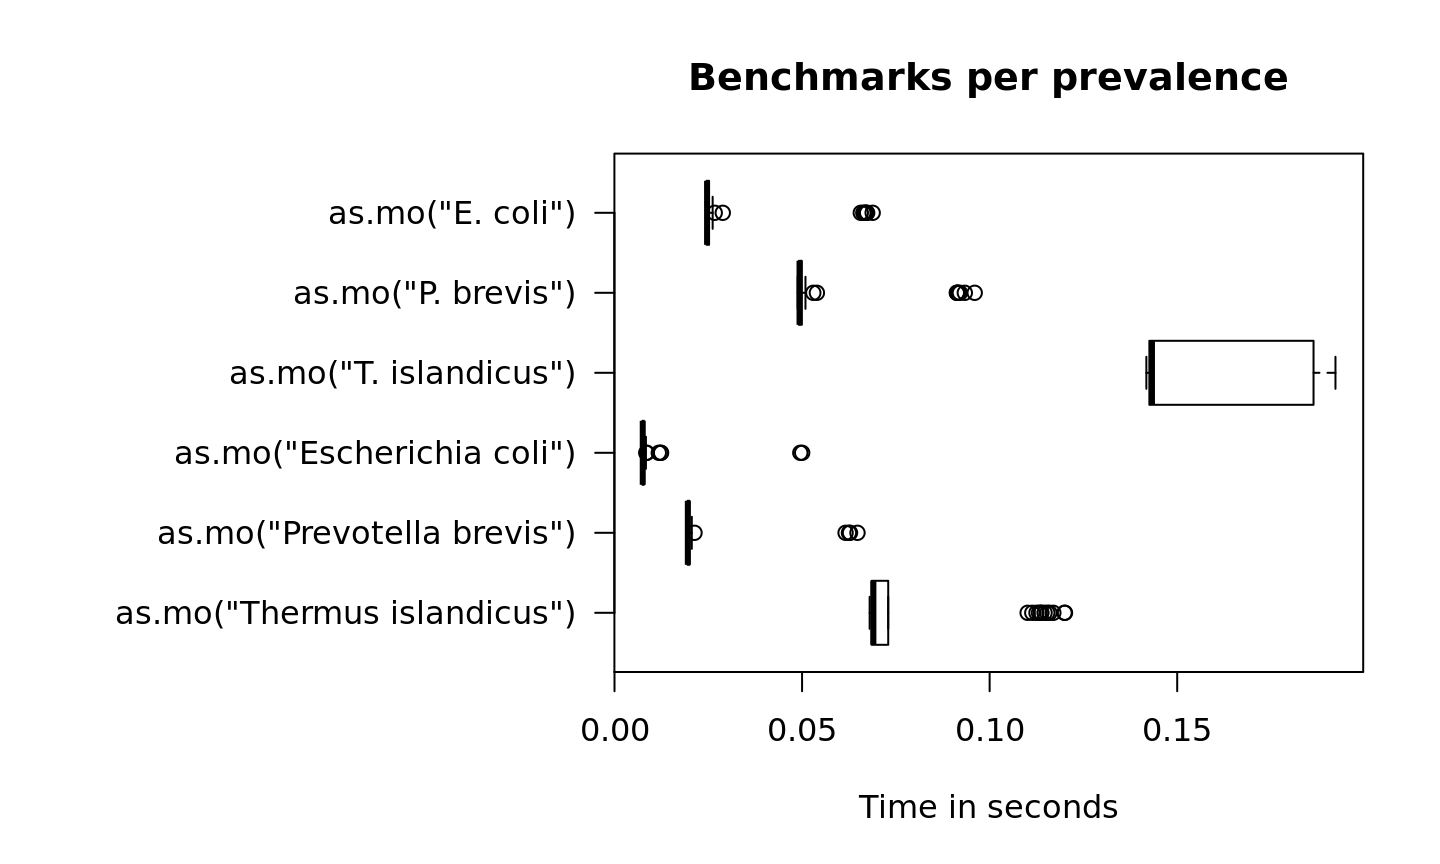
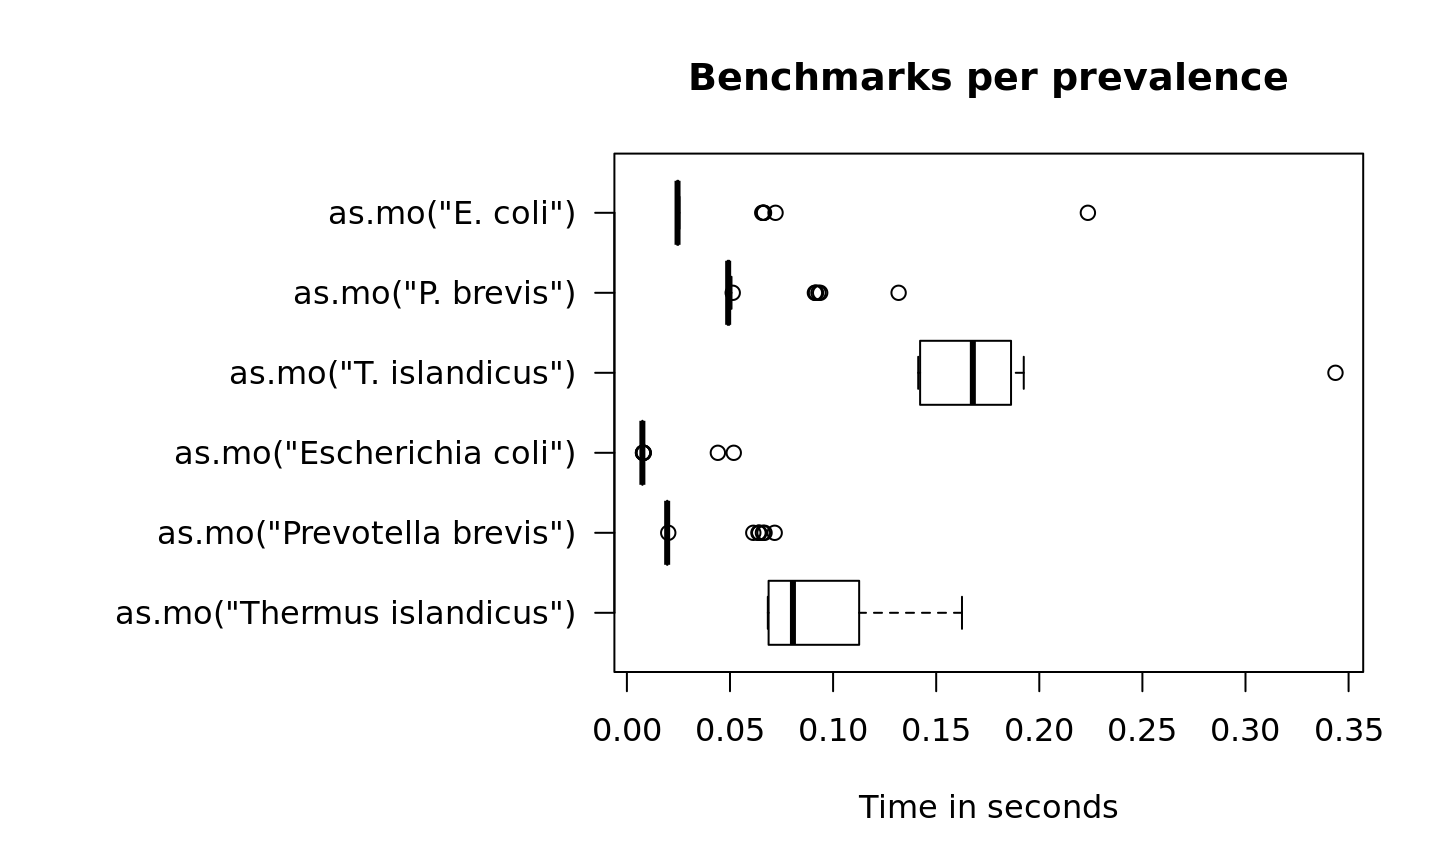
WHONET fix

diff --git a/docs/articles/benchmarks.html b/docs/articles/benchmarks.html
@@ -192,7 +192,7 @@
       <h1>Benchmarks</h1>
                         <h4 class="author">Matthijs S. Berends</h4>
             
-            <h4 class="date">06 March 2019</h4>
+            <h4 class="date">09 March 2019</h4>
       
       
       <div class="hidden name"><code>benchmarks.Rmd</code></div>
@@ -217,14 +217,14 @@
 <a class="sourceLine" id="cb2-8" title="8">                           <span class="dt">times =</span> <span class="dv">10</span>)</a>
 <a class="sourceLine" id="cb2-9" title="9"><span class="kw"><a href="https://www.rdocumentation.org/packages/base/topics/print">print</a></span>(S.aureus, <span class="dt">unit =</span> <span class="st">"ms"</span>, <span class="dt">signif =</span> <span class="dv">3</span>)</a>
 <a class="sourceLine" id="cb2-10" title="10"><span class="co">#&gt; Unit: milliseconds</span></a>
-<a class="sourceLine" id="cb2-11" title="11"><span class="co">#&gt;                            expr   min    lq mean median    uq   max neval</span></a>
-<a class="sourceLine" id="cb2-12" title="12"><span class="co">#&gt;                    as.mo("sau") 16.50 16.60 17.0  16.70 17.00  19.0    10</span></a>
-<a class="sourceLine" id="cb2-13" title="13"><span class="co">#&gt;                   as.mo("stau") 31.70 31.90 51.5  32.10 49.10 166.0    10</span></a>
-<a class="sourceLine" id="cb2-14" title="14"><span class="co">#&gt;                 as.mo("staaur") 16.60 16.70 21.8  16.80 17.00  65.7    10</span></a>
-<a class="sourceLine" id="cb2-15" title="15"><span class="co">#&gt;                 as.mo("STAAUR") 16.70 16.70 27.1  16.80 17.60  77.3    10</span></a>
-<a class="sourceLine" id="cb2-16" title="16"><span class="co">#&gt;              as.mo("S. aureus") 24.60 24.70 30.2  25.30 31.80  57.8    10</span></a>
-<a class="sourceLine" id="cb2-17" title="17"><span class="co">#&gt;             as.mo("S.  aureus") 24.60 24.60 37.7  25.10 66.00  67.4    10</span></a>
-<a class="sourceLine" id="cb2-18" title="18"><span class="co">#&gt;  as.mo("Staphylococcus aureus")  7.47  7.48 11.1   7.65  8.02  41.1    10</span></a></code></pre></div>
+<a class="sourceLine" id="cb2-11" title="11"><span class="co">#&gt;                            expr   min    lq mean median    uq  max neval</span></a>
+<a class="sourceLine" id="cb2-12" title="12"><span class="co">#&gt;                    as.mo("sau") 16.60 16.60 25.2  16.80 18.00 58.3    10</span></a>
+<a class="sourceLine" id="cb2-13" title="13"><span class="co">#&gt;                   as.mo("stau") 31.60 31.80 44.8  32.40 72.20 76.7    10</span></a>
+<a class="sourceLine" id="cb2-14" title="14"><span class="co">#&gt;                 as.mo("staaur") 16.60 16.60 26.4  16.70 17.30 71.9    10</span></a>
+<a class="sourceLine" id="cb2-15" title="15"><span class="co">#&gt;                 as.mo("STAAUR") 16.50 16.60 16.6  16.60 16.70 16.8    10</span></a>
+<a class="sourceLine" id="cb2-16" title="16"><span class="co">#&gt;              as.mo("S. aureus") 24.50 24.60 29.0  24.70 25.00 66.6    10</span></a>
+<a class="sourceLine" id="cb2-17" title="17"><span class="co">#&gt;             as.mo("S.  aureus") 24.30 24.60 24.6  24.60 24.70 24.9    10</span></a>
+<a class="sourceLine" id="cb2-18" title="18"><span class="co">#&gt;  as.mo("Staphylococcus aureus")  7.45  7.47 11.9   7.53  7.97 50.0    10</span></a></code></pre></div>
 <p>In the table above, all measurements are shown in milliseconds (thousands of seconds). A value of 5 milliseconds means it can determine 200 input values per second. It case of 100 milliseconds, this is only 10 input values per second. The second input is the only one that has to be looked up thoroughly. All the others are known codes (the first one is a WHONET code) or common laboratory codes, or common full organism names like the last one. Full organism names are always preferred.</p>
 <p>To achieve this speed, the <code>as.mo</code> function also takes into account the prevalence of human pathogenic microorganisms. The downside is of course that less prevalent microorganisms will be determined less fast. See this example for the ID of <em>Thermus islandicus</em> (<code>B_THERMS_ISL</code>), a bug probably never found before in humans:</p>
 <div class="sourceCode" id="cb3"><pre class="sourceCode r"><code class="sourceCode r"><a class="sourceLine" id="cb3-1" title="1">T.islandicus &lt;-<span class="st"> </span><span class="kw"><a href="https://www.rdocumentation.org/packages/microbenchmark/topics/microbenchmark">microbenchmark</a></span>(<span class="kw"><a href="../reference/as.mo.html">as.mo</a></span>(<span class="st">"theisl"</span>),</a>
@@ -236,12 +236,12 @@
 <a class="sourceLine" id="cb3-7" title="7"><span class="kw"><a href="https://www.rdocumentation.org/packages/base/topics/print">print</a></span>(T.islandicus, <span class="dt">unit =</span> <span class="st">"ms"</span>, <span class="dt">signif =</span> <span class="dv">3</span>)</a>
 <a class="sourceLine" id="cb3-8" title="8"><span class="co">#&gt; Unit: milliseconds</span></a>
 <a class="sourceLine" id="cb3-9" title="9"><span class="co">#&gt;                         expr   min    lq  mean median  uq max neval</span></a>
-<a class="sourceLine" id="cb3-10" title="10"><span class="co">#&gt;              as.mo("theisl") 269.0 270.0 294.0  293.0 317 320    10</span></a>
-<a class="sourceLine" id="cb3-11" title="11"><span class="co">#&gt;              as.mo("THEISL") 272.0 313.0 327.0  316.0 321 476    10</span></a>
-<a class="sourceLine" id="cb3-12" title="12"><span class="co">#&gt;       as.mo("T. islandicus") 142.0 142.0 159.0  144.0 191 205    10</span></a>
-<a class="sourceLine" id="cb3-13" title="13"><span class="co">#&gt;      as.mo("T.  islandicus") 142.0 143.0 166.0  164.0 188 196    10</span></a>
-<a class="sourceLine" id="cb3-14" title="14"><span class="co">#&gt;  as.mo("Thermus islandicus")  68.4  68.6  86.8   69.2 113 116    10</span></a></code></pre></div>
-<p>That takes 7.4 times as much time on average. A value of 100 milliseconds means it can only determine ~10 different input values per second. We can conclude that looking up arbitrary codes of less prevalent microorganisms is the worst way to go, in terms of calculation performance. Full names (like <em>Thermus islandicus</em>) are almost fast - these are the most probable input from most data sets.</p>
+<a class="sourceLine" id="cb3-10" title="10"><span class="co">#&gt;              as.mo("theisl") 262.0 263.0 284.0  284.0 304 308    10</span></a>
+<a class="sourceLine" id="cb3-11" title="11"><span class="co">#&gt;              as.mo("THEISL") 263.0 264.0 293.0  304.0 306 308    10</span></a>
+<a class="sourceLine" id="cb3-12" title="12"><span class="co">#&gt;       as.mo("T. islandicus") 142.0 142.0 151.0  143.0 147 187    10</span></a>
+<a class="sourceLine" id="cb3-13" title="13"><span class="co">#&gt;      as.mo("T.  islandicus") 142.0 142.0 169.0  184.0 185 194    10</span></a>
+<a class="sourceLine" id="cb3-14" title="14"><span class="co">#&gt;  as.mo("Thermus islandicus")  67.9  68.1  93.3   90.3 116 130    10</span></a></code></pre></div>
+<p>That takes 7.8 times as much time on average. A value of 100 milliseconds means it can only determine ~10 different input values per second. We can conclude that looking up arbitrary codes of less prevalent microorganisms is the worst way to go, in terms of calculation performance. Full names (like <em>Thermus islandicus</em>) are almost fast - these are the most probable input from most data sets.</p>
 <p>In the figure below, we compare <em>Escherichia coli</em> (which is very common) with <em>Prevotella brevis</em> (which is moderately common) and with <em>Thermus islandicus</em> (which is very uncommon):</p>
 <div class="sourceCode" id="cb4"><pre class="sourceCode r"><code class="sourceCode r"><a class="sourceLine" id="cb4-1" title="1"><span class="kw"><a href="https://www.rdocumentation.org/packages/graphics/topics/par">par</a></span>(<span class="dt">mar =</span> <span class="kw"><a href="https://www.rdocumentation.org/packages/base/topics/c">c</a></span>(<span class="dv">5</span>, <span class="dv">16</span>, <span class="dv">4</span>, <span class="dv">2</span>)) <span class="co"># set more space for left margin text (16)</span></a>
 <a class="sourceLine" id="cb4-2" title="2"></a>
@@ -287,8 +287,8 @@
 <a class="sourceLine" id="cb5-24" title="24"><span class="kw"><a href="https://www.rdocumentation.org/packages/base/topics/print">print</a></span>(run_it, <span class="dt">unit =</span> <span class="st">"ms"</span>, <span class="dt">signif =</span> <span class="dv">3</span>)</a>
 <a class="sourceLine" id="cb5-25" title="25"><span class="co">#&gt; Unit: milliseconds</span></a>
 <a class="sourceLine" id="cb5-26" title="26"><span class="co">#&gt;            expr min  lq mean median  uq max neval</span></a>
-<a class="sourceLine" id="cb5-27" title="27"><span class="co">#&gt;  mo_fullname(x) 688 757  800    758 919 921    10</span></a></code></pre></div>
-<p>So transforming 500,000 values (!!) of 50 unique values only takes 0.76 seconds (758 ms). You only lose time on your unique input values.</p>
+<a class="sourceLine" id="cb5-27" title="27"><span class="co">#&gt;  mo_fullname(x) 734 810  840    817 860 973    10</span></a></code></pre></div>
+<p>So transforming 500,000 values (!!) of 50 unique values only takes 0.82 seconds (817 ms). You only lose time on your unique input values.</p>
 </div>
 <div id="precalculated-results" class="section level3">
 <h3 class="hasAnchor">
@@ -301,9 +301,9 @@
 <a class="sourceLine" id="cb6-5" title="5"><span class="kw"><a href="https://www.rdocumentation.org/packages/base/topics/print">print</a></span>(run_it, <span class="dt">unit =</span> <span class="st">"ms"</span>, <span class="dt">signif =</span> <span class="dv">3</span>)</a>
 <a class="sourceLine" id="cb6-6" title="6"><span class="co">#&gt; Unit: milliseconds</span></a>
 <a class="sourceLine" id="cb6-7" title="7"><span class="co">#&gt;  expr    min     lq   mean median     uq    max neval</span></a>
-<a class="sourceLine" id="cb6-8" title="8"><span class="co">#&gt;     A 11.200 11.300 11.900 12.200 12.300 12.600    10</span></a>
-<a class="sourceLine" id="cb6-9" title="9"><span class="co">#&gt;     B 22.300 22.500 23.300 23.100 23.900 24.700    10</span></a>
-<a class="sourceLine" id="cb6-10" title="10"><span class="co">#&gt;     C  0.339  0.519  0.612  0.564  0.768  0.776    10</span></a></code></pre></div>
+<a class="sourceLine" id="cb6-8" title="8"><span class="co">#&gt;     A 11.200 11.300 11.400 11.400 11.600 11.600    10</span></a>
+<a class="sourceLine" id="cb6-9" title="9"><span class="co">#&gt;     B 22.200 22.400 26.800 22.600 22.800 63.700    10</span></a>
+<a class="sourceLine" id="cb6-10" title="10"><span class="co">#&gt;     C  0.328  0.564  0.525  0.568  0.577  0.591    10</span></a></code></pre></div>
 <p>So going from <code><a href="../reference/mo_property.html">mo_fullname("Staphylococcus aureus")</a></code> to <code>"Staphylococcus aureus"</code> takes 0.0006 seconds - it doesn’t even start calculating <em>if the result would be the same as the expected resulting value</em>. That goes for all helper functions:</p>
 <div class="sourceCode" id="cb7"><pre class="sourceCode r"><code class="sourceCode r"><a class="sourceLine" id="cb7-1" title="1">run_it &lt;-<span class="st"> </span><span class="kw"><a href="https://www.rdocumentation.org/packages/microbenchmark/topics/microbenchmark">microbenchmark</a></span>(<span class="dt">A =</span> <span class="kw"><a href="../reference/mo_property.html">mo_species</a></span>(<span class="st">"aureus"</span>),</a>
 <a class="sourceLine" id="cb7-2" title="2">                         <span class="dt">B =</span> <span class="kw"><a href="../reference/mo_property.html">mo_genus</a></span>(<span class="st">"Staphylococcus"</span>),</a>
@@ -317,14 +317,14 @@
 <a class="sourceLine" id="cb7-10" title="10"><span class="kw"><a href="https://www.rdocumentation.org/packages/base/topics/print">print</a></span>(run_it, <span class="dt">unit =</span> <span class="st">"ms"</span>, <span class="dt">signif =</span> <span class="dv">3</span>)</a>
 <a class="sourceLine" id="cb7-11" title="11"><span class="co">#&gt; Unit: milliseconds</span></a>
 <a class="sourceLine" id="cb7-12" title="12"><span class="co">#&gt;  expr   min    lq  mean median    uq   max neval</span></a>
-<a class="sourceLine" id="cb7-13" title="13"><span class="co">#&gt;     A 0.321 0.434 0.481  0.501 0.519 0.665    10</span></a>
-<a class="sourceLine" id="cb7-14" title="14"><span class="co">#&gt;     B 0.352 0.414 0.482  0.475 0.513 0.715    10</span></a>
-<a class="sourceLine" id="cb7-15" title="15"><span class="co">#&gt;     C 0.394 0.648 0.670  0.679 0.770 0.839    10</span></a>
-<a class="sourceLine" id="cb7-16" title="16"><span class="co">#&gt;     D 0.354 0.371 0.393  0.395 0.410 0.428    10</span></a>
-<a class="sourceLine" id="cb7-17" title="17"><span class="co">#&gt;     E 0.286 0.353 0.370  0.369 0.399 0.443    10</span></a>
-<a class="sourceLine" id="cb7-18" title="18"><span class="co">#&gt;     F 0.317 0.373 0.377  0.380 0.392 0.437    10</span></a>
-<a class="sourceLine" id="cb7-19" title="19"><span class="co">#&gt;     G 0.272 0.307 0.352  0.348 0.387 0.431    10</span></a>
-<a class="sourceLine" id="cb7-20" title="20"><span class="co">#&gt;     H 0.293 0.338 0.366  0.361 0.412 0.441    10</span></a></code></pre></div>
+<a class="sourceLine" id="cb7-13" title="13"><span class="co">#&gt;     A 0.318 0.376 0.414  0.419 0.449 0.537    10</span></a>
+<a class="sourceLine" id="cb7-14" title="14"><span class="co">#&gt;     B 0.343 0.397 0.437  0.447 0.479 0.522    10</span></a>
+<a class="sourceLine" id="cb7-15" title="15"><span class="co">#&gt;     C 0.325 0.380 0.486  0.482 0.554 0.703    10</span></a>
+<a class="sourceLine" id="cb7-16" title="16"><span class="co">#&gt;     D 0.334 0.337 0.381  0.372 0.426 0.434    10</span></a>
+<a class="sourceLine" id="cb7-17" title="17"><span class="co">#&gt;     E 0.304 0.322 0.356  0.335 0.393 0.460    10</span></a>
+<a class="sourceLine" id="cb7-18" title="18"><span class="co">#&gt;     F 0.295 0.323 0.370  0.362 0.424 0.463    10</span></a>
+<a class="sourceLine" id="cb7-19" title="19"><span class="co">#&gt;     G 0.296 0.321 0.362  0.348 0.387 0.470    10</span></a>
+<a class="sourceLine" id="cb7-20" title="20"><span class="co">#&gt;     H 0.289 0.335 0.355  0.351 0.387 0.421    10</span></a></code></pre></div>
 <p>Of course, when running <code><a href="../reference/mo_property.html">mo_phylum("Firmicutes")</a></code> the function has zero knowledge about the actual microorganism, namely <em>S. aureus</em>. But since the result would be <code>"Firmicutes"</code> too, there is no point in calculating the result. And because this package ‘knows’ all phyla of all known bacteria (according to the Catalogue of Life), it can just return the initial value immediately.</p>
 </div>
 <div id="results-in-other-languages" class="section level3">
@@ -351,13 +351,13 @@
 <a class="sourceLine" id="cb8-18" title="18"><span class="kw"><a href="https://www.rdocumentation.org/packages/base/topics/print">print</a></span>(run_it, <span class="dt">unit =</span> <span class="st">"ms"</span>, <span class="dt">signif =</span> <span class="dv">4</span>)</a>
 <a class="sourceLine" id="cb8-19" title="19"><span class="co">#&gt; Unit: milliseconds</span></a>
 <a class="sourceLine" id="cb8-20" title="20"><span class="co">#&gt;  expr   min    lq  mean median    uq   max neval</span></a>
-<a class="sourceLine" id="cb8-21" title="21"><span class="co">#&gt;    en 14.97 15.49 15.46  15.56 15.60 15.65    10</span></a>
-<a class="sourceLine" id="cb8-22" title="22"><span class="co">#&gt;    de 27.29 27.76 44.46  27.98 69.27 71.00    10</span></a>
-<a class="sourceLine" id="cb8-23" title="23"><span class="co">#&gt;    nl 27.22 27.97 28.53  28.03 29.40 31.36    10</span></a>
-<a class="sourceLine" id="cb8-24" title="24"><span class="co">#&gt;    es 27.45 27.96 32.24  28.00 28.08 69.99    10</span></a>
-<a class="sourceLine" id="cb8-25" title="25"><span class="co">#&gt;    it 27.21 27.32 28.01  27.89 28.05 29.41    10</span></a>
-<a class="sourceLine" id="cb8-26" title="26"><span class="co">#&gt;    fr 27.26 27.94 28.16  28.12 28.25 29.47    10</span></a>
-<a class="sourceLine" id="cb8-27" title="27"><span class="co">#&gt;    pt 27.08 27.45 36.14  27.92 28.07 70.34    10</span></a></code></pre></div>
+<a class="sourceLine" id="cb8-21" title="21"><span class="co">#&gt;    en 15.57 15.87 24.21  20.71 37.98 38.78    10</span></a>
+<a class="sourceLine" id="cb8-22" title="22"><span class="co">#&gt;    de 28.79 34.96 53.24  52.02 56.97 95.22    10</span></a>
+<a class="sourceLine" id="cb8-23" title="23"><span class="co">#&gt;    nl 28.31 29.29 47.74  40.57 58.94 97.03    10</span></a>
+<a class="sourceLine" id="cb8-24" title="24"><span class="co">#&gt;    es 28.97 30.43 42.78  34.70 51.47 72.11    10</span></a>
+<a class="sourceLine" id="cb8-25" title="25"><span class="co">#&gt;    it 27.71 29.15 38.88  31.19 35.10 76.86    10</span></a>
+<a class="sourceLine" id="cb8-26" title="26"><span class="co">#&gt;    fr 28.37 29.28 40.89  41.73 50.43 56.78    10</span></a>
+<a class="sourceLine" id="cb8-27" title="27"><span class="co">#&gt;    pt 27.82 29.03 42.49  29.84 50.14 94.96    10</span></a></code></pre></div>
 <p>Currently supported are German, Dutch, Spanish, Italian, French and Portuguese.</p>
 </div>
   </div>

diff --git a/docs/reference/mo_property.html b/docs/reference/mo_property.html
@@ -251,15 +251,15 @@
 
 <span class='fu'>mo_genus</span>(<span class='no'>x</span>, <span class='kw'>language</span> <span class='kw'>=</span> <span class='fu'><a href='get_locale.html'>get_locale</a></span>(), <span class='no'>...</span>)
 
-<span class='fu'>mo_family</span>(<span class='no'>x</span>, <span class='no'>...</span>)
+<span class='fu'>mo_family</span>(<span class='no'>x</span>, <span class='kw'>language</span> <span class='kw'>=</span> <span class='fu'><a href='get_locale.html'>get_locale</a></span>(), <span class='no'>...</span>)
 
-<span class='fu'>mo_order</span>(<span class='no'>x</span>, <span class='no'>...</span>)
+<span class='fu'>mo_order</span>(<span class='no'>x</span>, <span class='kw'>language</span> <span class='kw'>=</span> <span class='fu'><a href='get_locale.html'>get_locale</a></span>(), <span class='no'>...</span>)
 
-<span class='fu'>mo_class</span>(<span class='no'>x</span>, <span class='no'>...</span>)
+<span class='fu'>mo_class</span>(<span class='no'>x</span>, <span class='kw'>language</span> <span class='kw'>=</span> <span class='fu'><a href='get_locale.html'>get_locale</a></span>(), <span class='no'>...</span>)
 
-<span class='fu'>mo_phylum</span>(<span class='no'>x</span>, <span class='no'>...</span>)
+<span class='fu'>mo_phylum</span>(<span class='no'>x</span>, <span class='kw'>language</span> <span class='kw'>=</span> <span class='fu'><a href='get_locale.html'>get_locale</a></span>(), <span class='no'>...</span>)
 
-<span class='fu'>mo_kingdom</span>(<span class='no'>x</span>, <span class='no'>...</span>)
+<span class='fu'>mo_kingdom</span>(<span class='no'>x</span>, <span class='kw'>language</span> <span class='kw'>=</span> <span class='fu'><a href='get_locale.html'>get_locale</a></span>(), <span class='no'>...</span>)
 
 <span class='fu'>mo_type</span>(<span class='no'>x</span>, <span class='kw'>language</span> <span class='kw'>=</span> <span class='fu'><a href='get_locale.html'>get_locale</a></span>(), <span class='no'>...</span>)
 
@@ -273,7 +273,7 @@
 
 <span class='fu'>mo_rank</span>(<span class='no'>x</span>, <span class='no'>...</span>)
 
-<span class='fu'>mo_taxonomy</span>(<span class='no'>x</span>, <span class='no'>...</span>)
+<span class='fu'>mo_taxonomy</span>(<span class='no'>x</span>, <span class='kw'>language</span> <span class='kw'>=</span> <span class='fu'><a href='get_locale.html'>get_locale</a></span>(), <span class='no'>...</span>)
 
 <span class='fu'>mo_url</span>(<span class='no'>x</span>, <span class='kw'>open</span> <span class='kw'>=</span> <span class='fl'>FALSE</span>, <span class='no'>...</span>)
 

diff --git a/docs/reference/as.mo.html b/docs/reference/as.mo.html
@@ -366,6 +366,7 @@ The <code><a href='mo_property.html'>mo_property</a></code> functions (like <cod
     <h2 class="hasAnchor" id="examples"><a class="anchor" href="#examples"></a>Examples</h2>
     <pre class="examples"><span class='co'># NOT RUN {</span>
 <span class='co'># These examples all return "B_STPHY_AUR", the ID of S. aureus:</span>
+<span class='fu'>as.mo</span>(<span class='st'>"sau"</span>) <span class='co'># WHONET code</span>
 <span class='fu'>as.mo</span>(<span class='st'>"stau"</span>)
 <span class='fu'>as.mo</span>(<span class='st'>"STAU"</span>)
 <span class='fu'>as.mo</span>(<span class='st'>"staaur"</span>)

diff --git a/docs/articles/SPSS.html b/docs/articles/SPSS.html
@@ -192,7 +192,7 @@
       <h1>How to import data from SPSS / SAS / Stata</h1>
                         <h4 class="author">Matthijs S. Berends</h4>
             
-            <h4 class="date">06 March 2019</h4>
+            <h4 class="date">09 March 2019</h4>
       
       
       <div class="hidden name"><code>SPSS.Rmd</code></div>
